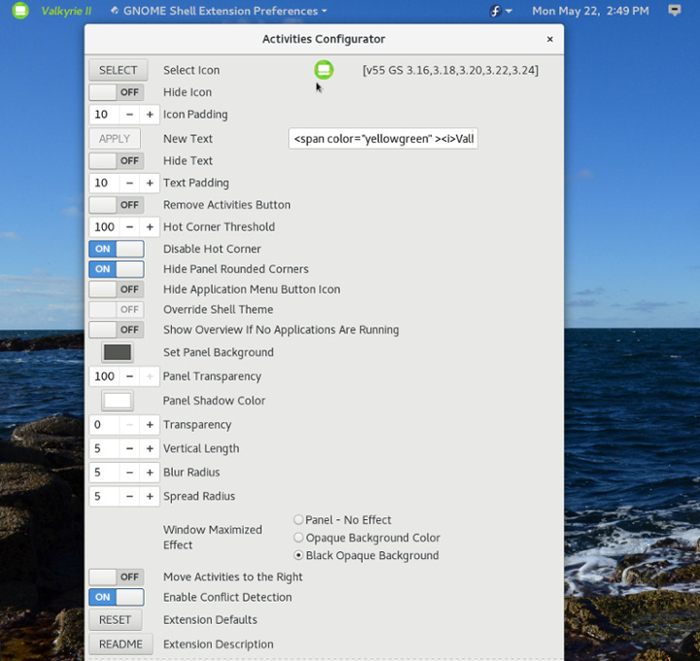
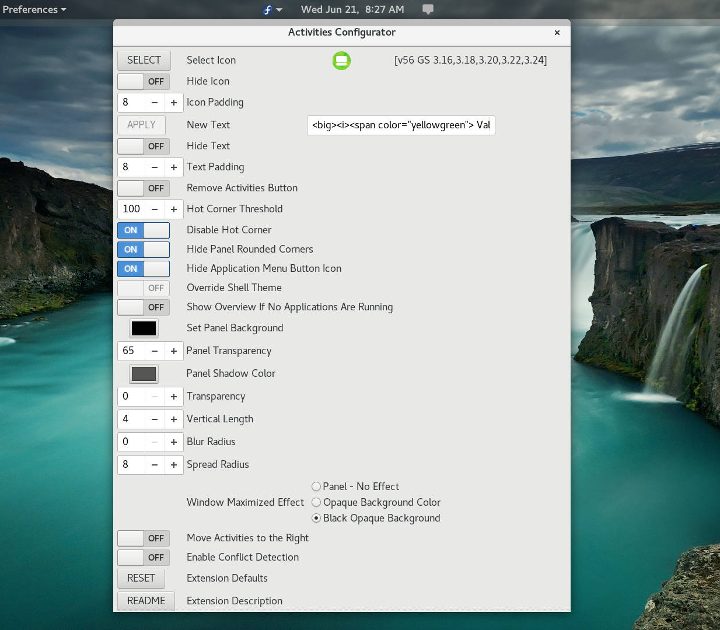
Update for AC56

diff --git a/latestupdate.html b/latestupdate.html
@@ -17,7 +17,11 @@ Install Activities Configurator from the Gnome Shell Extension Website
 <a href="./activities_config_zip.html" target="Right">
 Download the zip-file for the Activities Configurator extension from the Gnome Shell Extension Website.
 </a>
-<h4>Latest Update Version 55 GS 3.16 3.18 3.20 3.22 3.24</h4>
+<h4>Latest Update Version 56 GS 3.16 3.18 3.20 3.22 3.24</h4>
+<p>
+Added additional hidden rounded corners defensive logic to re-hide corners if shown by another extension.
+</p>
+<h4>Update Version 55 GS 3.16 3.18 3.20 3.22 3.24</h4>
 <p>
 Translations updated. Thanks to Jonatan Zeidler.
 </p>

diff --git a/activities_config_zip.html b/activities_config_zip.html
@@ -27,6 +27,10 @@
 <td><h3>Gnome Shell Version(s)</h3></td>
 </tr>
 <tr>
+<td><a href="https://extensions.gnome.org/review/download/6996.shell-extension.zip">v56</a></td><td>&nbsp&nbsp&nbsp</td>
+<td><strong>3.16 3.18 3.20 3.22 3.24</strong></td>
+</tr>
+<tr>
 <td><a href="https://extensions.gnome.org/review/download/6905.shell-extension.zip">v55</a></td><td>&nbsp&nbsp&nbsp</td>
 <td><strong>3.16 3.18 3.20 3.22 3.24</strong></td>
 </tr>
